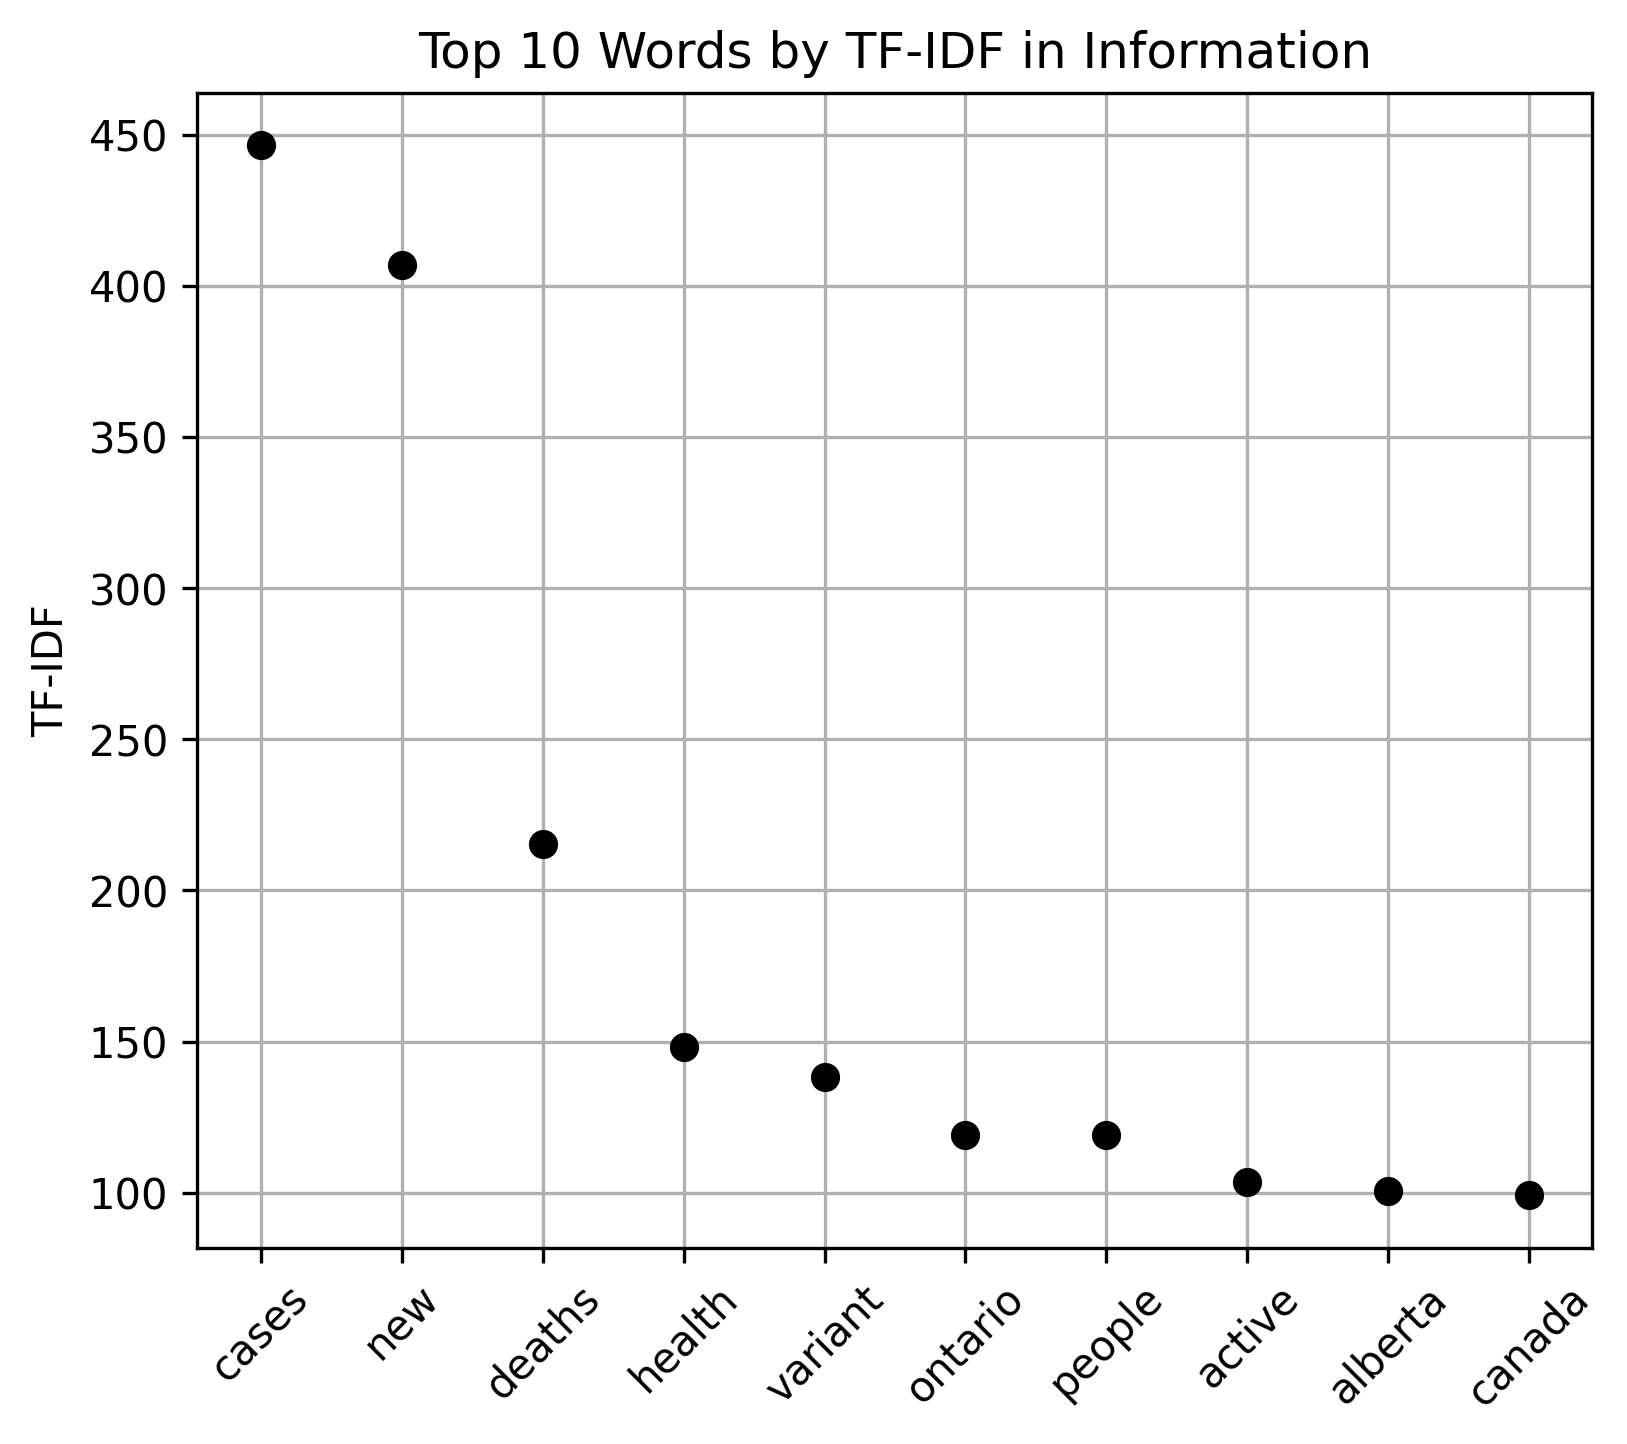
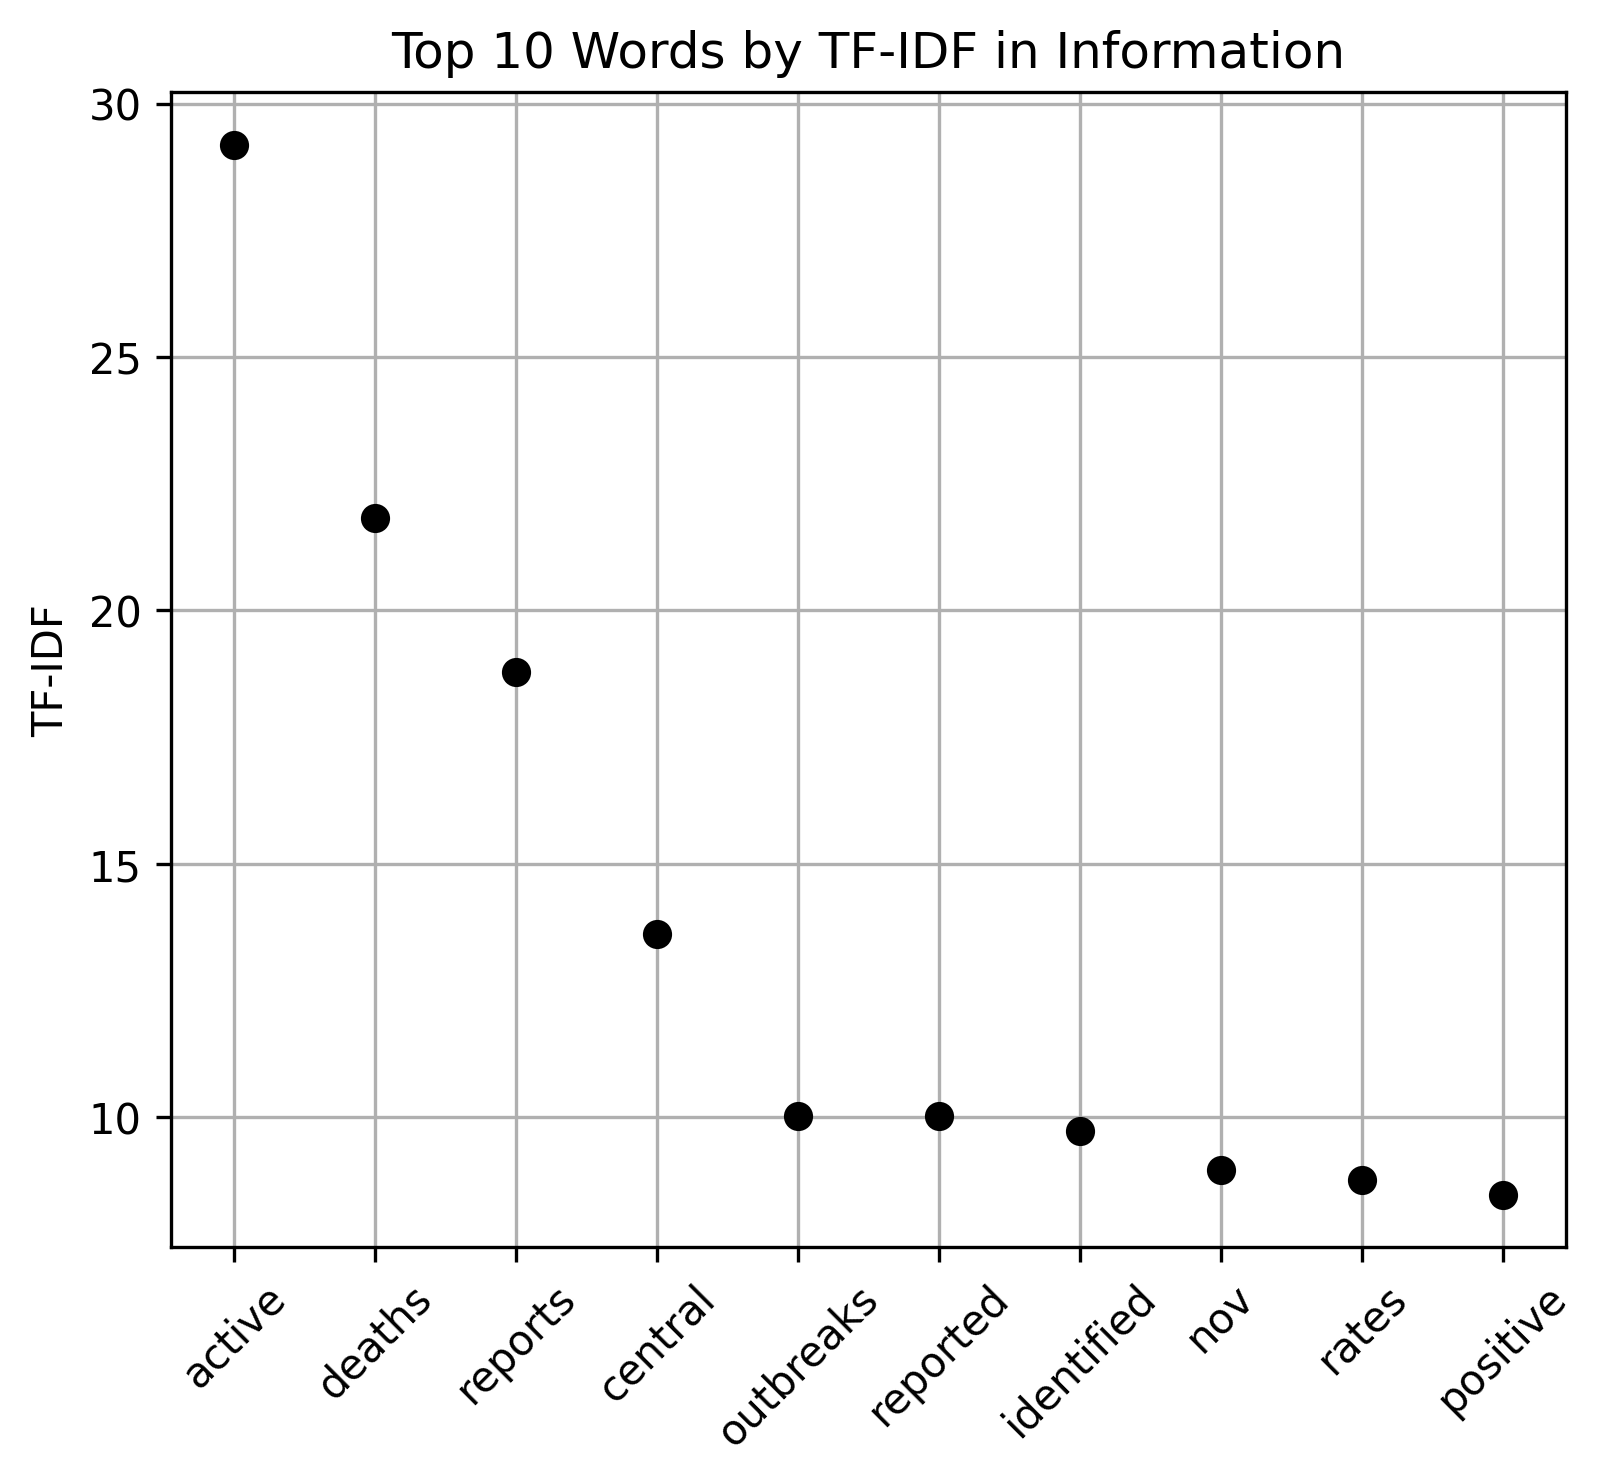
fixed tf idf values

diff --git a/src/tfidf_analysis.py b/src/tfidf_analysis.py
@@ -79,7 +79,7 @@ def tf(w, topic, counts):
 
 
 def idf(w, counts): 
-    num_docs = 1000
+    num_docs = 7
     # check to see which topics used word w
     usages = 0
     for topic, freq_dict in counts.items():
